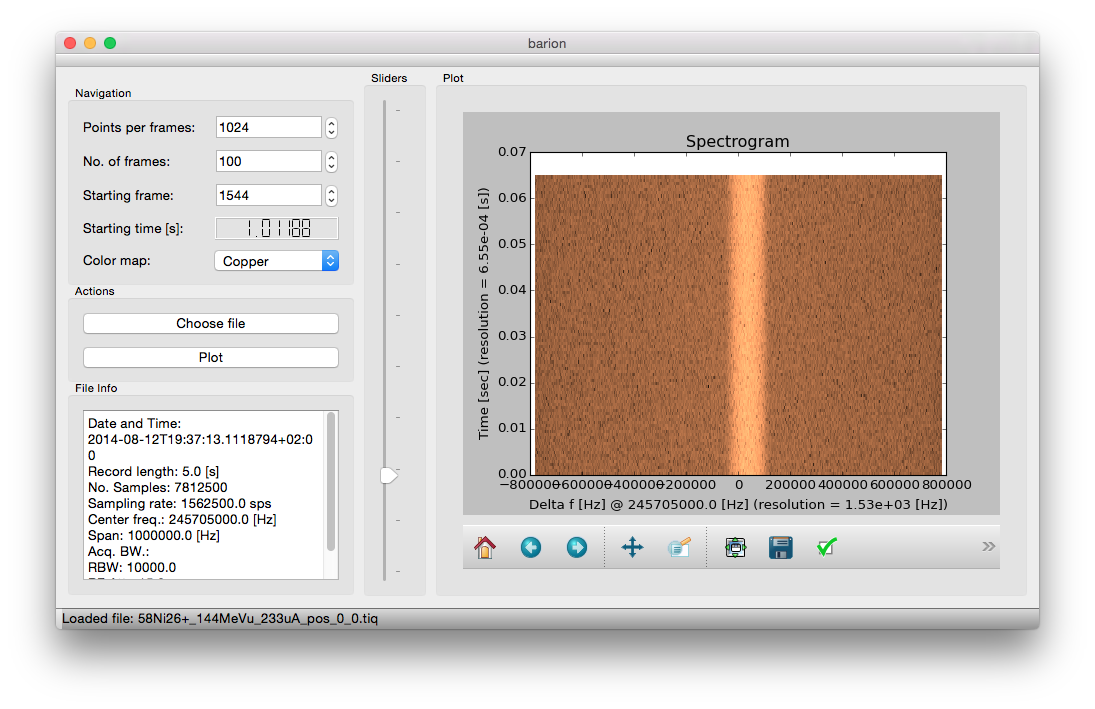
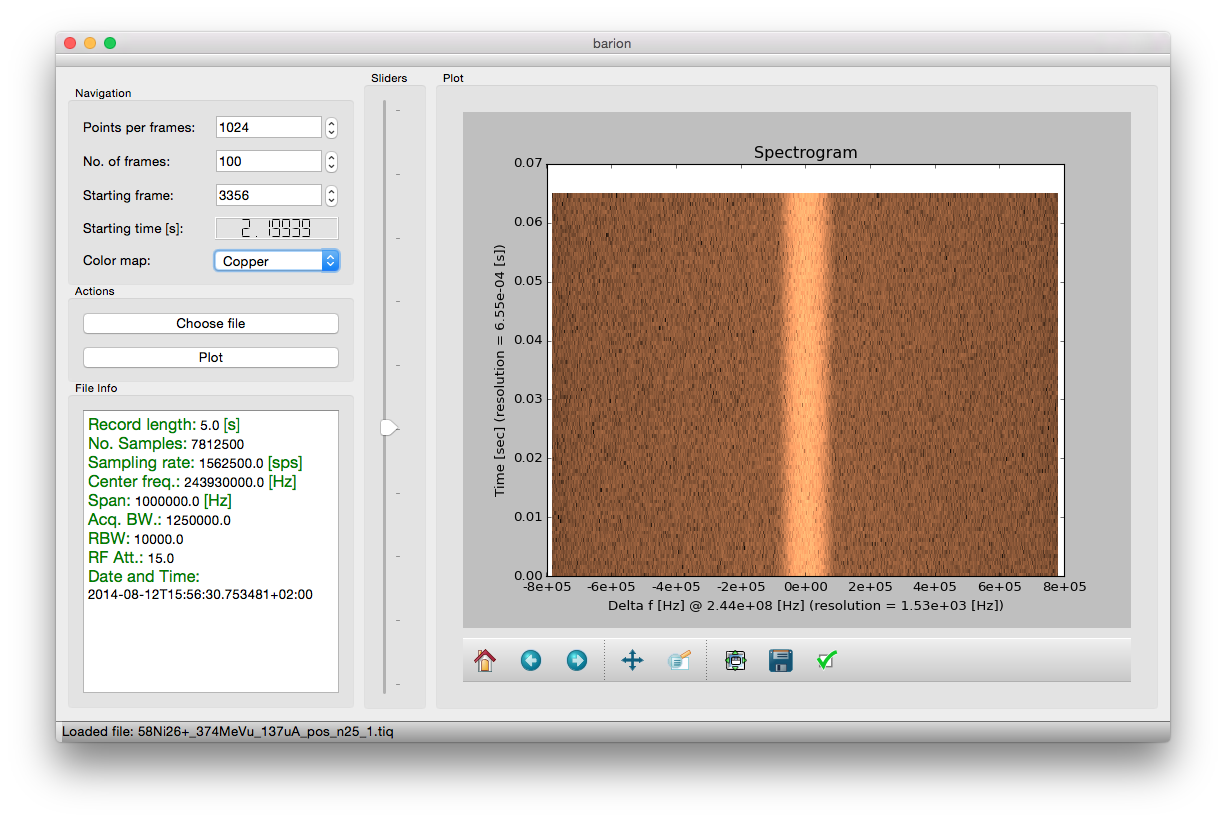
format plot axis

diff --git a/mainwindow.py b/mainwindow.py
@@ -12,6 +12,7 @@ from PyQt5.QtGui import QKeyEvent
 from PyQt5.QtCore import Qt, QCoreApplication
 import numpy as np
 import matplotlib.cm as cm
+from matplotlib.ticker import FormatStrFormatter
 from mainwindow_ui import Ui_MainWindow
 from aboutdialog_ui import Ui_AbooutDialog
 from iqdata import IQData
@@ -42,6 +43,10 @@ class mainWindow(QMainWindow, Ui_MainWindow):
         self.connect_signals()
 
     def showAboutDialog(self):
+        """
+        Show about dialog
+        :return:
+        """
         about_dialog = QDialog()
         about_dialog.ui = Ui_AbooutDialog()
         about_dialog.ui.setupUi(about_dialog)
@@ -65,7 +70,10 @@ class mainWindow(QMainWindow, Ui_MainWindow):
         self.verticalSlider_sframes.valueChanged.connect(self.setup_gui_element_limits)
 
     def plot(self):
-
+        """
+        Main plot function
+        :return:
+        """
         if not self.file_loaded:
             self.show_message('Please choose a valid file first.')
             return
@@ -94,16 +102,24 @@ class mainWindow(QMainWindow, Ui_MainWindow):
         if self.comboBox_color.currentText() == 'Gray':
             cmap = cm.gray
 
-        _ = self.mplWidget.canvas.ax.pcolormesh(xx, yy, IQData.get_dbm(zz), cmap=cmap)
-        # cb = self.mplWidget.canvas.colorbar(sp)
-        # cb.set_label('Power Spectral Density [dBm/Hz]')
+        sp = self.mplWidget.canvas.ax.pcolormesh(xx, yy, IQData.get_dbm(zz), cmap=cmap)
+        #cb = self.mplWidget.colorbar(sp)
+        #cb.set_label('Power Spectral Density [dBm/Hz]')
+
+        # Change frequency axis formatting
+        self.mplWidget.canvas.ax.xaxis.set_major_formatter(FormatStrFormatter('%.0e'))
         self.mplWidget.canvas.ax.set_xlabel(
-            "Delta f [Hz] @ {} [Hz] (resolution = {:.2e} [Hz])".format(self.iq_data.center, delta_f))
+            "Delta f [Hz] @ {:.2e} [Hz] (resolution = {:.2e} [Hz])".format(self.iq_data.center, delta_f))
         self.mplWidget.canvas.ax.set_ylabel('Time [sec] (resolution = {:.2e} [s])'.format(delta_t))
         self.mplWidget.canvas.ax.set_title('Spectrogram')
         self.mplWidget.canvas.draw()
 
     def addmpl(self, fig):
+        """
+        Add plot widget
+        :param fig:
+        :return:
+        """
         self.canvas = FigureCanvas(fig)
         self.mplvl.addWidget(self.canvas)
         self.canvas.draw()

diff --git a/iqdata.py b/iqdata.py
@@ -41,16 +41,17 @@ class IQData(object):
 
     def __str__(self):
         return \
-            'Record length: {} [s]'.format(self.number_samples / self.fs) + '\n' + \
-            'No. Samples: {}'.format(self.number_samples) + '\n' + \
-            'Sampling rate: {} sps'.format(self.fs) + '\n' + \
-            'Center freq.: {} [Hz]'.format(self.center) + '\n' + \
-            'Span: {} [Hz]'.format(self.span) + '\n' + \
-            'Acq. BW.:'.format(self.acq_bw) + '\n' + \
-            'RBW: {}'.format(self.rbw) + '\n' + \
-            'RF Att.: {}'.format(self.rf_att) + '\n' + \
-            'Date and Time: {}'.format(self.date_time) + '\n'
-            #'Scale factor: {}'.format(self.scale)
+            '<font size="4" color="green">Record length:</font> {} <font size="4" color="green">[s]</font><br>'.format(
+                self.number_samples / self.fs) + '\n' + \
+            '<font size="4" color="green">No. Samples:</font> {} <br>'.format(self.number_samples) + '\n' + \
+            '<font size="4" color="green">Sampling rate:</font> {} <font size="4" color="green">[sps]</font><br>'.format(self.fs) + '\n' + \
+            '<font size="4" color="green">Center freq.:</font> {} <font size="4" color="green">[Hz]</font><br>'.format(self.center) + '\n' + \
+            '<font size="4" color="green">Span:</font> {} <font size="4" color="green">[Hz]</font><br>'.format(self.span) + '\n' + \
+            '<font size="4" color="green">Acq. BW.:</font> {} <br>'.format(self.acq_bw) + '\n' + \
+            '<font size="4" color="green">RBW:</font> {} <br>'.format(self.rbw) + '\n' + \
+            '<font size="4" color="green">RF Att.:</font> {} <br>'.format(self.rf_att) + '\n' + \
+            '<font size="4" color="green">Date and Time:</font> {} <br>'.format(self.date_time) + '\n'
+        # 'Scale factor: {}'.format(self.scale)
 
     def read_iqt(self, filename):
         # todo: to be done

diff --git a/mainwindow_ui.py b/mainwindow_ui.py
@@ -2,7 +2,7 @@
 
 # Form implementation generated from reading ui file 'mainwindow.ui'
 #
-# Created: Wed Sep 16 12:59:38 2015
+# Created: Wed Sep 16 15:53:45 2015
 #      by: PyQt5 UI code generator 5.4
 #
 # WARNING! All changes made in this file will be lost!
@@ -12,7 +12,7 @@ from PyQt5 import QtCore, QtGui, QtWidgets
 class Ui_MainWindow(object):
     def setupUi(self, MainWindow):
         MainWindow.setObjectName("MainWindow")
-        MainWindow.resize(983, 575)
+        MainWindow.resize(1114, 688)
         self.centralwidget = QtWidgets.QWidget(MainWindow)
         self.centralwidget.setObjectName("centralwidget")
         self.horizontalLayout_2 = QtWidgets.QHBoxLayout(self.centralwidget)
@@ -129,7 +129,7 @@ class Ui_MainWindow(object):
         self.horizontalLayout_2.addWidget(self.groupBox_4)
         MainWindow.setCentralWidget(self.centralwidget)
         self.menubar = QtWidgets.QMenuBar(MainWindow)
-        self.menubar.setGeometry(QtCore.QRect(0, 0, 983, 22))
+        self.menubar.setGeometry(QtCore.QRect(0, 0, 1114, 22))
         self.menubar.setObjectName("menubar")
         self.menuFile = QtWidgets.QMenu(self.menubar)
         self.menuFile.setObjectName("menuFile")
